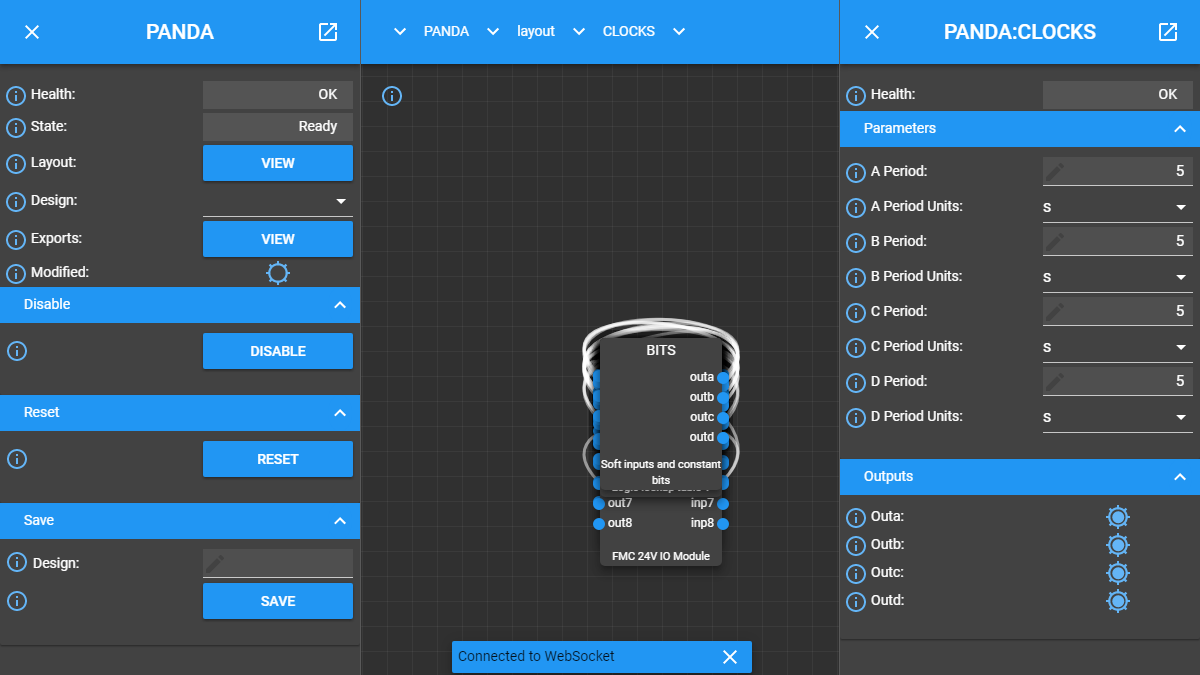
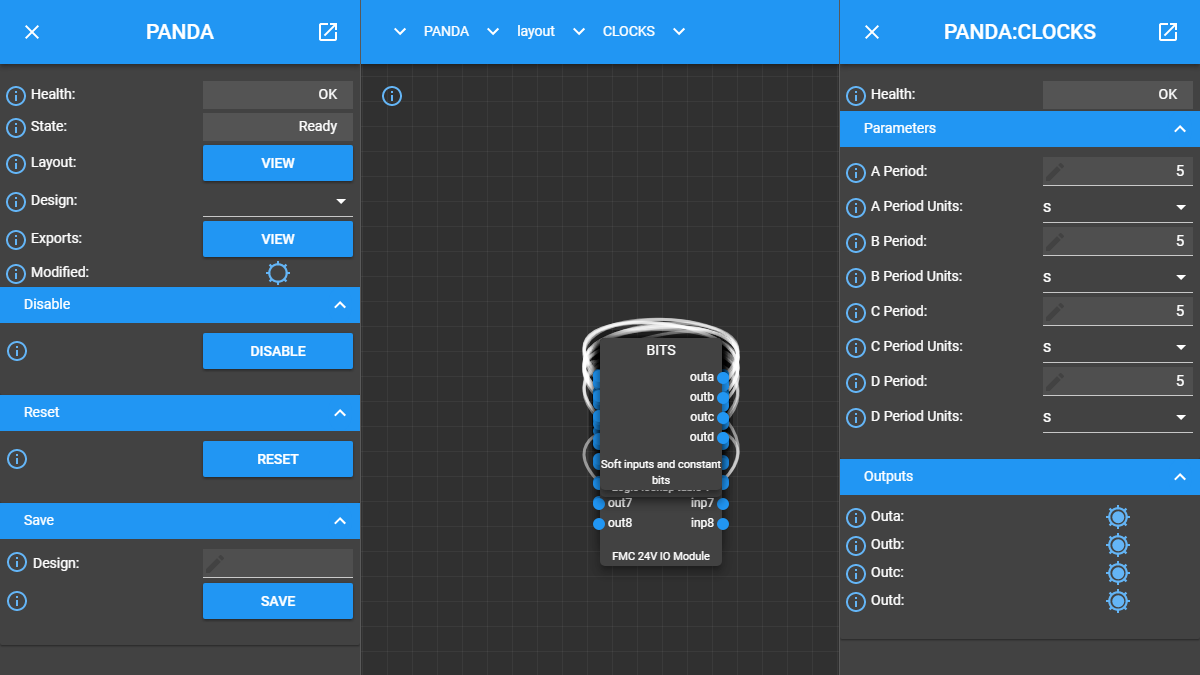
Fixed the screenshots so the snackbar isn't present

Changed region(s): [[0.37, 0.9333, 0.6475, 1.0]]

diff --git a/cypress/automated_screenshots/user_guide_screenshots.js b/cypress/automated_screenshots/user_guide_screenshots.js
@@ -2,7 +2,8 @@ describe('User guide screenshots', () => {
   it('example UI', () => {
     cy.viewport(1200, 675);
     cy.visit('/gui/PANDA/layout/PANDA:CLOCKS');
-    cy.wait(4000);
+    cy.wait(3000);
+    cy.wait(1000);
     cy.screenshot('example-ui');
   });
 });

diff --git a/cypress/automated_screenshots/smg_screenshots.js b/cypress/automated_screenshots/smg_screenshots.js
@@ -2,7 +2,8 @@ describe('SMG screenshots', () => {
   it('example UI', () => {
     cy.viewport(1200, 675);
     cy.visit('/gui/PANDA/layout/PANDA:CLOCKS');
-    cy.wait(4000);
+    cy.wait(3000);
+    cy.wait(1000);
     cy.screenshot('example-ui');
   });
 
